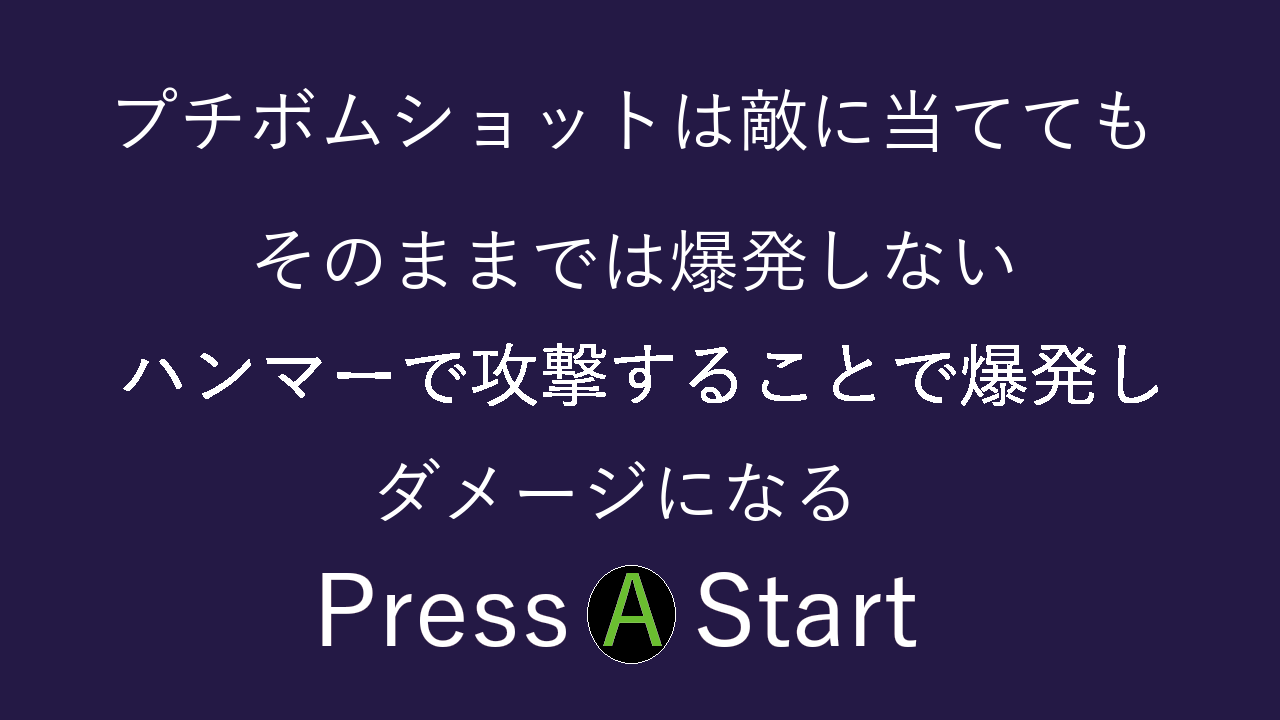
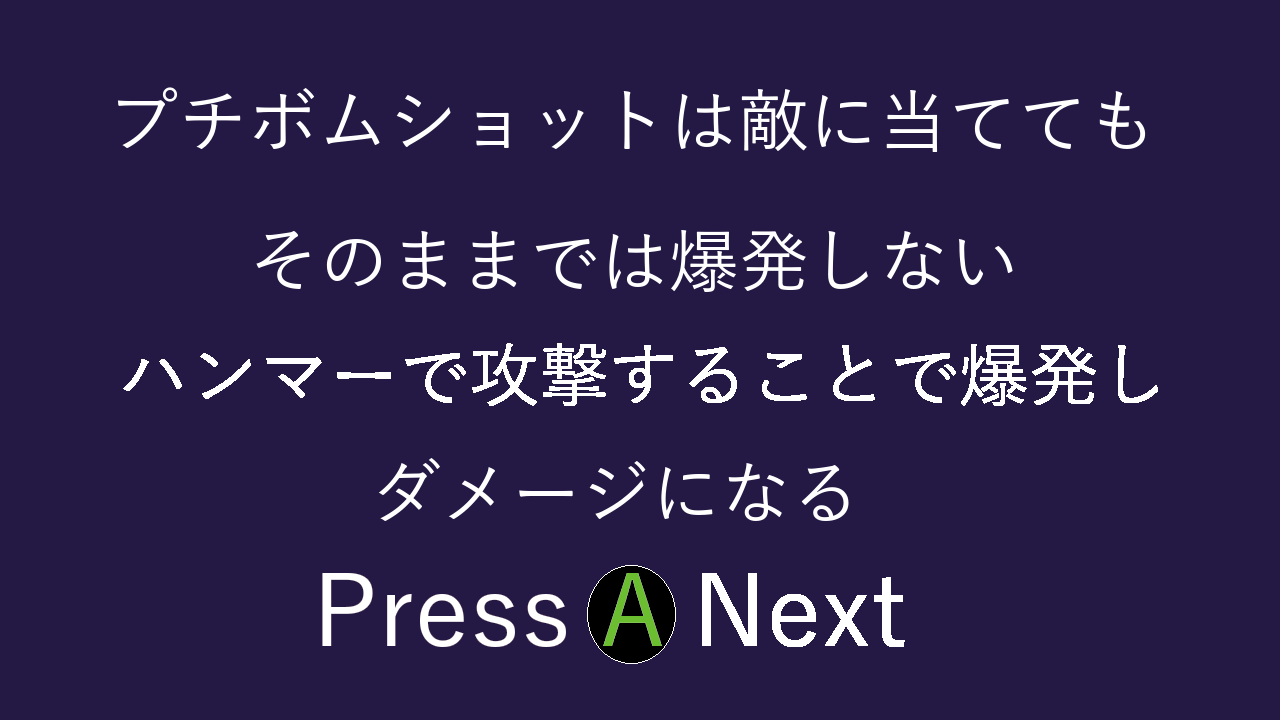
ゲームパッドに対応

Changed region(s): [[0.5312, 0.7944, 0.7188, 0.9167]]

diff --git a/projects/Game/objects/Player.cpp b/projects/Game/objects/Player.cpp
@@ -187,7 +187,7 @@ void Player::Draw(Camera* camera) {
 void Player::Move()
 {
 	//左右移動
-	if (input_->PushKey(DIK_A)) {
+	if (input_->PushKey(DIK_A) || input_->PushButton(XINPUT_GAMEPAD_DPAD_LEFT) || input_->GetLeftStickX() < -0.5f) {
 		worldTransform_.translation_.x -= speed_;
 		if (lrDirection_ != LRDirection::kLeft) {
 			lrDirection_ = LRDirection::kLeft;
@@ -196,7 +196,7 @@ void Player::Move()
 			turnTimer_ = 0.0f;
 		}
 	}
-	if (input_->PushKey(DIK_D)) {
+	if (input_->PushKey(DIK_D) || input_->PushButton(XINPUT_GAMEPAD_DPAD_RIGHT) || input_->GetLeftStickX() > 0.5f) {
 		worldTransform_.translation_.x += speed_;
 		if (lrDirection_ != LRDirection::kRight) {
 			lrDirection_ = LRDirection::kRight;
@@ -207,7 +207,7 @@ void Player::Move()
 	}
 
 	//ジャンプ
-	if (onGround_ && input_->TriggerKey(DIK_W)) {
+	if (onGround_ && input_->TriggerKey(DIK_W) || input_->TriggerButton(XINPUT_GAMEPAD_A)) {
 		// ジャンプ加速
 		velocity_.y += kJumpAcceleration_;
 		onGround_ = false;
@@ -251,7 +251,7 @@ void Player::Attack()
 	if (workAttack_.attackParameter_ != 0) {
 		return;
 	}
-	if (!input_->TriggerKey(DIK_SPACE)) {
+	if (!input_->TriggerKey(DIK_SPACE) && !input_->TriggerButton(XINPUT_GAMEPAD_X)) {
 		return;
 	}
 	workAttack_.isAttack_ = true;
@@ -260,7 +260,7 @@ void Player::Attack()
 
 void Player::Fire()
 {
-	if (!input_->TriggerKey(DIK_K)) {
+	if (!input_->TriggerKey(DIK_K) && !input_->TriggerButton(XINPUT_GAMEPAD_RIGHT_THUMB) && !input_->TriggerButton(XINPUT_GAMEPAD_RIGHT_SHOULDER)) {
 		return;
 	}
 	if (lrDirection_ == LRDirection::kRight) {

diff --git a/projects/Game/scene/TitleScene.cpp b/projects/Game/scene/TitleScene.cpp
@@ -19,6 +19,7 @@ void TitleScene::Initialize()
 	textureHandleTitle_ = TextureManager::GetInstance()->Load("./resources/Title.png");
 	textuHandleSetsumei_ = TextureManager::GetInstance()->Load("./resources/Setsumei01.png");
 	textuHandleSetsumei02_ = TextureManager::GetInstance()->Load("./resources/Setsumei02.png");
+	textuHandleSetsumei03_ = TextureManager::GetInstance()->Load("./resources/Setsumei03.png");
 
 	spriteTitle_ = std::make_unique<Sprite>();
 	spriteTitle_->Initialize(textureHandleTitle_);
@@ -49,7 +50,7 @@ void TitleScene::Update()
 		break;
 
 	case TitleScene::Phase::kMain:
-		if (input_->TriggerKey(DIK_SPACE)) {
+		if (input_->TriggerKey(DIK_SPACE) || input_->TriggerButton(XINPUT_GAMEPAD_A)) {
 			if (phase2_ == 0) {
 				phase2_++;
 				spriteTitle_->SetTexture(textuHandleSetsumei_);
@@ -57,6 +58,10 @@ void TitleScene::Update()
 			else if (phase2_ == 1) {
 				phase2_++;
 				spriteTitle_->SetTexture(textuHandleSetsumei02_);
+			}
+			else if (phase2_ == 2) {
+				phase2_++;
+				spriteTitle_->SetTexture(textuHandleSetsumei03_);
 			}
 			else {
 				fade_->Start(Fade::Status::FadeOut, 0.5f);

diff --git a/projects/Game/scene/GameOverScene.cpp b/projects/Game/scene/GameOverScene.cpp
@@ -35,7 +35,7 @@ void GameOverScene::Update()
 		break;
 
 	case GameOverScene::Phase::kMain:
-		if (input_->TriggerKey(DIK_SPACE)) {
+		if (input_->TriggerKey(DIK_SPACE) || input_->TriggerButton(XINPUT_GAMEPAD_A)) {
 
 			fade_->Start(Fade::Status::FadeOut, 0.5f);
 			phase_ = Phase::kFadoOut;

diff --git a/projects/Game/scene/ClearScene.cpp b/projects/Game/scene/ClearScene.cpp
@@ -35,7 +35,7 @@ void ClearScene::Update()
 		break;
 
 	case ClearScene::Phase::kMain:
-		if (input_->TriggerKey(DIK_SPACE)) {
+		if (input_->TriggerKey(DIK_SPACE) || input_->TriggerButton(XINPUT_GAMEPAD_A)) {
 			
 			fade_->Start(Fade::Status::FadeOut, 0.5f);
 			phase_ = Phase::kFadoOut;

diff --git a/projects/Game/scene/TitleScene.h b/projects/Game/scene/TitleScene.h
@@ -51,6 +51,7 @@ private:
 	uint32_t textureHandleTitle_;
 	uint32_t textuHandleSetsumei_;
 	uint32_t textuHandleSetsumei02_;
+	uint32_t textuHandleSetsumei03_;
 
 	std::unique_ptr<Sprite> spriteTitle_;
 
